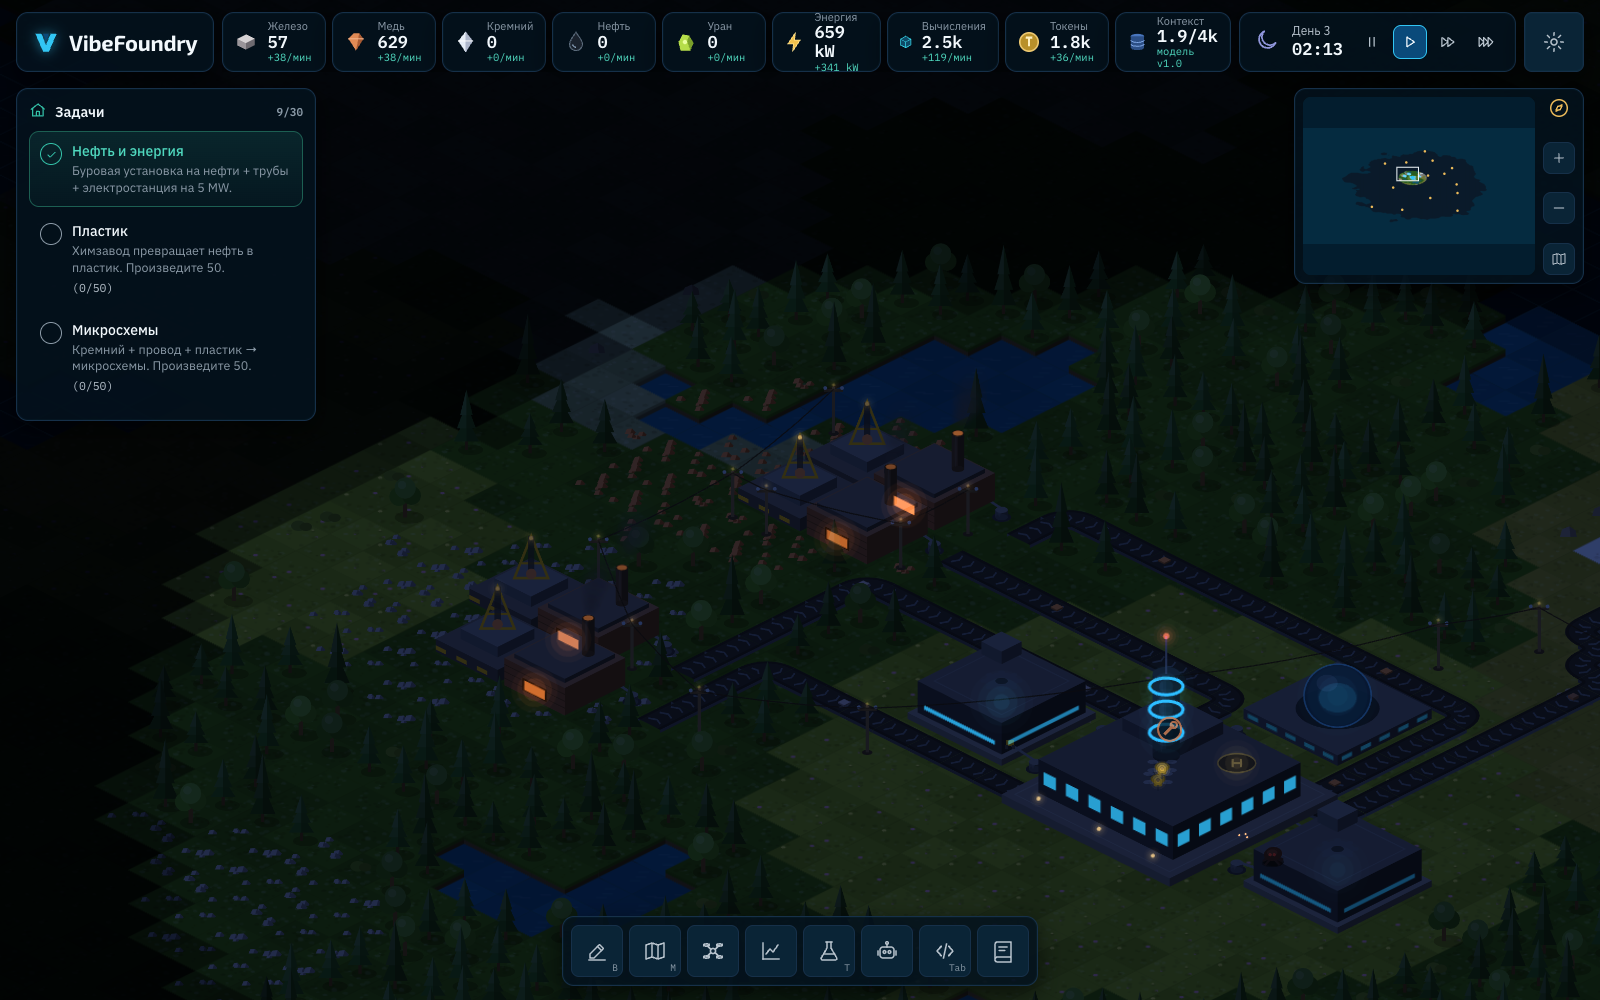
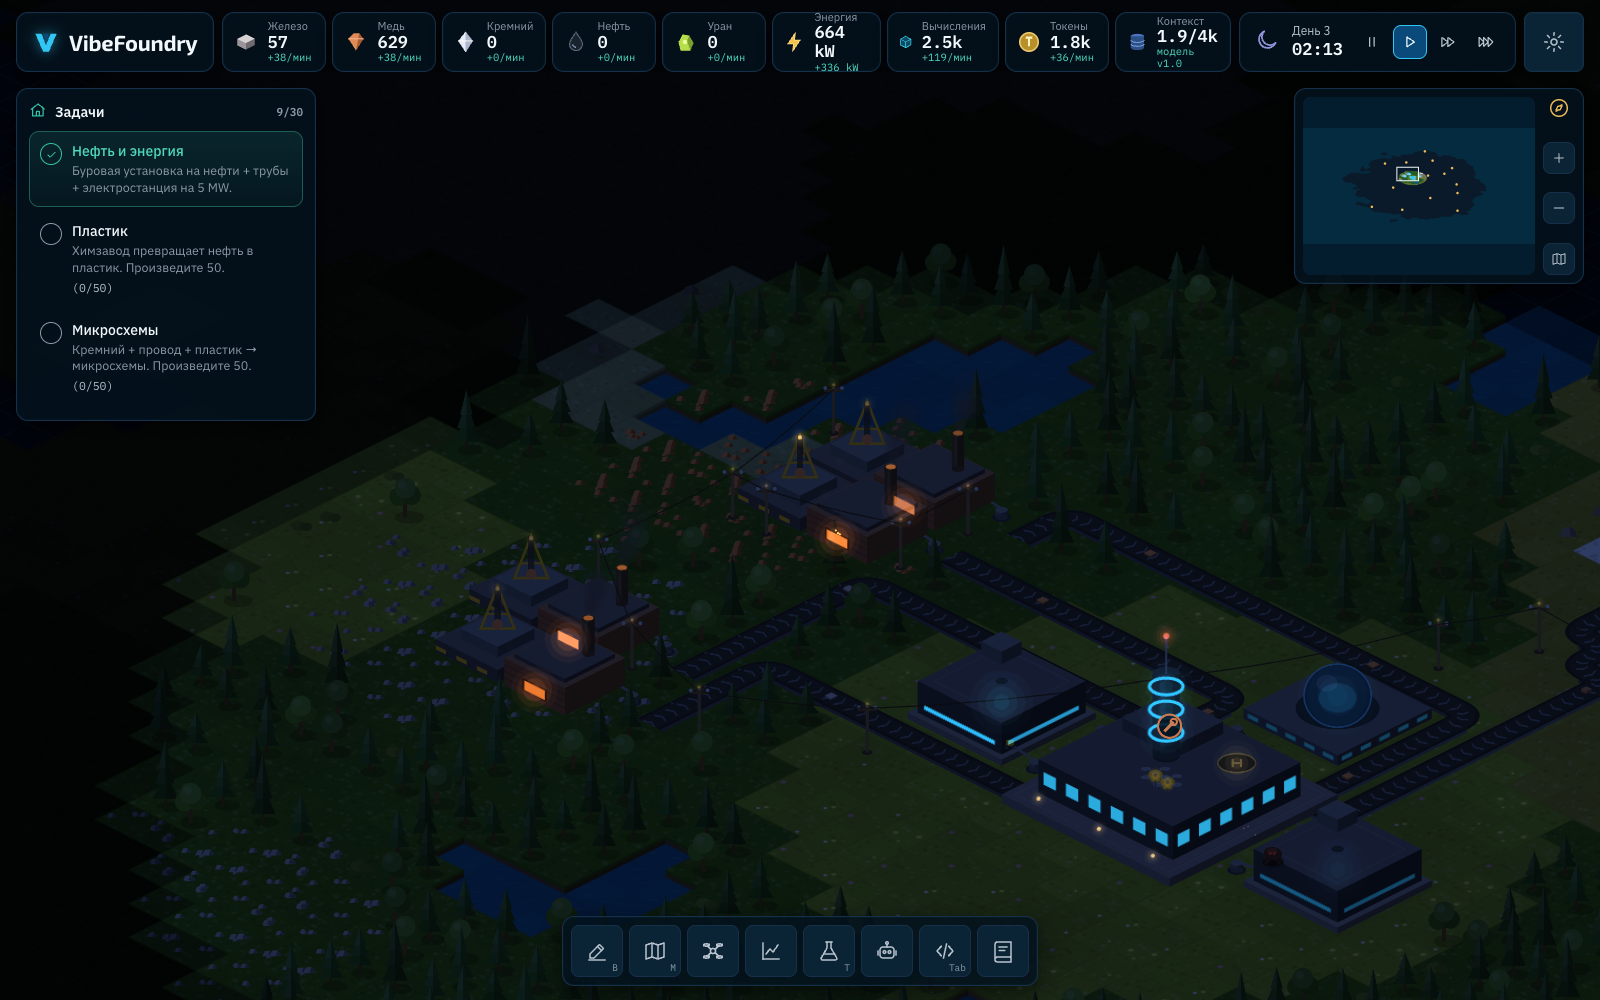
polish: README, REPORT, rect tools + G/X hotkeys, tutorial card highlight, high-contrast mode, world events, bad_threshold hallucination, e2e save/load/export

diff --git a/vibefoundry/src/ui/hud.tsx b/vibefoundry/src/ui/hud.tsx
@@ -297,15 +297,22 @@ export function BuildMenu({ game }: { game: Game }) {
   const list = BUILDING_LIST.filter((b) => !b.hidden && b.category === cat);
   const cur = game.tool.kind === 'build' ? game.tool.type : null;
   const stock = sim.stockAll();
+  const q = sim.quests.active[0];
+  const hlCard = q === 'q_drill' ? 'drill' : q === 'q_belt' ? 'belt' : q === 'q_power' ? 'pole' : q === 'q_lab' ? 'lab' : null;
   return (
     <div class="panel glow buildmenu">
       <div class="tabs">
         {CATS.map((c) => (
           <button key={c} class={c === cat ? 'on' : ''} onClick={() => { game.ui.buildCategory = c; game.emit(); }}>{CATEGORY_NAMES[c]}</button>
         ))}
-        <span class="muted" style={{ marginLeft: 'auto', fontSize: 12, alignSelf: 'center' }}>
-          <span class="kbd">R</span> поворот · <span class="kbd">Q</span> пипетка · <span class="kbd">ПКМ</span> снос
+        <span style={{ marginLeft: 'auto', display: 'flex', gap: 4 }}>
+          <button class={game.tool.kind === 'decon' ? 'on' : ''} onClick={() => { game.setTool(game.tool.kind === 'decon' ? { kind: 'none' } : { kind: 'decon' }); game.ui.panel = null; game.emit(); }} data-tip="Снос рамкой: выделите область"><Icon name="trash" size={14} /> Снос</button>
+          <button class={game.tool.kind === 'group' ? 'on' : ''} onClick={() => { game.setTool(game.tool.kind === 'group' ? { kind: 'none' } : { kind: 'group' }); game.ui.panel = null; game.emit(); }} data-tip="Группа рамкой (G): выделите здания → имя группы для скриптов"><Icon name="group" size={14} /> Группа</button>
+          {sim.isUnlocked('blueprints') && <button class={game.tool.kind === 'copy' ? 'on' : ''} onClick={() => { game.setTool({ kind: 'copy' }); game.ui.panel = null; game.emit(); }} data-tip="Чертёж (Ctrl+C): скопировать область"><Icon name="copy" size={14} /> Чертёж</button>}
         </span>
+      </div>
+      <div class="muted" style={{ fontSize: 11.5, margin: '-4px 0 8px' }}>
+        <span class="kbd">R</span> поворот · <span class="kbd">Q</span> пипетка · <span class="kbd">ПКМ</span> снос · ленты и трубы тянутся мышью
       </div>
       <div class="bgrid scroll">
         {list.map((b) => {
@@ -314,7 +321,7 @@ export function BuildMenu({ game }: { game: Game }) {
           return (
             <button
               key={b.id}
-              class={'bcard' + (cur === b.id ? ' on' : '') + (!unlocked ? ' locked' : '')}
+              class={'bcard' + (cur === b.id ? ' on' : '') + (!unlocked ? ' locked' : '') + (hlCard === b.id && cur !== b.id ? ' pulse-target' : '')}
               onClick={() => { if (unlocked) { game.selectBuild(b.id); audio.play('click'); } }}
               aria-label={b.name}
               data-tip={`${b.name}. ${b.desc}${b.power ? ` Потребление: ${mw(b.power)}.` : ''}${b.gen ? ` Выработка: ${mw(b.gen)}.` : ''} Размер ${b.w}×${b.h}.${!unlocked ? ` Требуется: ${TECHS[b.unlock!]?.name}.` : ''}`}

diff --git a/vibefoundry/src/sim/worldEvents.ts b/vibefoundry/src/sim/worldEvents.ts
@@ -1,0 +1,58 @@
+import type { Sim } from './sim';
+import { RES_CODE } from '../data/items';
+import { isWater } from '../data/biomes';
+
+/** Random world events: sandstorm, geomagnetic storm, meteor. Checked once per second. */
+export interface WorldEventState {
+  next: number;
+  sandstormUntil: number;
+  geostormUntil: number;
+}
+
+export function solarFactor(sim: Sim): number {
+  return sim.time < (sim.flags.sandstormUntil ?? 0) ? 0.3 : 1;
+}
+
+export function computeFactor(sim: Sim): number {
+  return sim.time < (sim.flags.geostormUntil ?? 0) ? 0.6 : 1;
+}
+
+export function worldEvents(sim: Sim): void {
+  if (sim.headless) return;
+  if (sim.flags.nextWorldEvent === undefined) sim.flags.nextWorldEvent = 12 * 60 + sim.rng.range(0, 300);
+  if (sim.time < sim.flags.nextWorldEvent) return;
+  sim.flags.nextWorldEvent = sim.time + sim.rng.range(8 * 60, 14 * 60);
+  const roll = sim.rng.next();
+  if (roll < 0.4 && sim.list.some((e) => e.type === 'solar')) {
+    sim.flags.sandstormUntil = sim.time + 90;
+    sim.toast({ kind: 'warning', title: 'Песчаная буря', text: 'Солнечные поля дают 30 % мощности ближайшие 90 с. Самое время для скрипта с приоритетами.', key: 'sandstorm' });
+  } else if (roll < 0.7 && sim.list.some((e) => e.type === 'server' || e.type === 'aicore' || e.type === 'datacenter')) {
+    sim.flags.geostormUntil = sim.time + 60;
+    sim.toast({ kind: 'warning', title: 'Геомагнитная буря', text: 'Помехи в серверах: вычисления −40 % на 60 с.', key: 'geostorm' });
+  } else {
+    // meteor: a fresh rare-earth (or uranium) patch somewhere in the explored area
+    const w = sim.world;
+    for (let t = 0; t < 200; t++) {
+      const x = sim.rng.int(10, w.w - 10);
+      const y = sim.rng.int(10, w.h - 10);
+      const i = w.idx(x, y);
+      if (!w.fog[i] || isWater(w.biome[i]) || w.occ[i] || w.res[i]) continue;
+      const res = sim.rng.chance(0.7) ? 'rare_earth' : 'uranium_ore';
+      for (let dy = -2; dy <= 2; dy++) for (let dx = -2; dx <= 2; dx++) {
+        const xx = x + dx;
+        const yy = y + dy;
+        if (!w.inBounds(xx, yy) || Math.hypot(dx, dy) > 2.3) continue;
+        const j = w.idx(xx, yy);
+        if (isWater(w.biome[j]) || w.occ[j]) continue;
+        w.res[j] = RES_CODE[res];
+        w.amt[j] = 900;
+        w.deco[j] = 0;
+        w.markDirty(xx, yy);
+      }
+      w.deposits.push({ res, x, y, total: 900 * 18 });
+      sim.events.emit('fx', { kind: 'explode', x, y });
+      sim.toast({ kind: 'info', title: 'Метеорит!', text: res === 'rare_earth' ? 'Упал обломок с редкоземами — новое месторождение.' : 'Упал обломок с ураном — новое месторождение.', focus: { x, y }, key: 'meteor' + x });
+      break;
+    }
+  }
+}

diff --git a/vibefoundry/e2e/playtest.spec.ts b/vibefoundry/e2e/playtest.spec.ts
@@ -125,5 +125,25 @@ test('autoplay: first 20 minutes, milestones and screenshots', async ({ page }) 
   });
   const found = await page.evaluate(() => (window as any).__vf.sim.flags.bugs.some((b: any) => b.found));
   expect(found).toBe(true);
+  // save → reload page → load: the whole factory and its Git history come back
+  const before = await page.evaluate(async () => {
+    const v = (window as any).__vf;
+    await v.game.saveTo('slot1');
+    return { ents: v.sim.list.length, commits: v.sim.git.commits.length, chat: v.sim.ai.chat.length, tick: v.sim.tick };
+  });
+  const [download] = await Promise.all([page.waitForEvent('download'), page.evaluate(() => (window as any).__vf.game.exportSave())]);
+  expect(download.suggestedFilename()).toMatch(/vibefoundry-day\d+\.json/);
+  await page.reload();
+  await page.waitForFunction(() => (window as any).__vf?.ready);
+  const after = await page.evaluate(async () => {
+    const v = (window as any).__vf;
+    const ok = await v.game.loadFrom('slot1');
+    return { ok, ents: v.sim.list.length, commits: v.sim.git.commits.length, chat: v.sim.ai.chat.length, tick: v.sim.tick };
+  });
+  expect(after.ok).toBe(true);
+  expect(after.ents).toBe(before.ents);
+  expect(after.commits).toBe(before.commits);
+  expect(after.chat).toBe(before.chat);
+  await shot(page, '13-loaded-save');
   expect(errors.filter((e) => !/favicon|DevTools/.test(e))).toEqual([]);
 });

diff --git a/vibefoundry/src/ai/hallucination.ts b/vibefoundry/src/ai/hallucination.ts
@@ -30,6 +30,7 @@ const TYPE_DESC: Record<BugRecord['type'], string> = {
   flapping: 'Дребезг — здания включаются и выключаются каждую секунду',
   bad_group: 'Маршрут/действие в несуществующую группу',
   missing_else: 'Забытая ветка else — часть логики не выполняется',
+  bad_threshold: 'Порог не в той шкале (доля стала процентами) — правило срабатывает всегда',
 };
 
 /**
@@ -54,6 +55,9 @@ export function hallucinate(code: string, rng: Rng): { code: string; bug: BugRec
     // flapping: condition also true every other second
     const mf = l.match(/^(\s*)if (.+):$/);
     if (mf && /disable|shutdown|enable/.test(lines[i + 1] ?? '')) options.push(() => at(i, `${mf[1]}if ${mf[2]} or int(self.time) % 2 == 0:`, 'flapping'));
+    // threshold in the wrong scale: 0.8 → 80
+    const mt = l.match(/^(\s*)if (self\.(?:power|energy)) (<|>) (0\.\d+):$/);
+    if (mt) options.push(() => at(i, `${mt[1]}if ${mt[2]} ${mt[3]} ${Math.round(Number(mt[4]) * 100)}:`, 'bad_threshold'));
     // hallucinated group name
     const mg = l.match(/self\.(disable|enable|shutdown|set_priority|set_recipe)\("([a-z_0-9]+)"/);
     if (mg && mg[2] !== 'all') options.push(() => at(i, l.replace(`"${mg[2]}"`, `"${mg[2]}_v2"`), 'bad_group'));

diff --git a/vibefoundry/src/ui/windows.tsx b/vibefoundry/src/ui/windows.tsx
@@ -310,7 +310,7 @@ const GROUP_DOC: [string, string][] = [
 
 const HOTKEYS: [string, string][] = [
   ['WASD / стрелки / перетаскивание', 'Камера'], ['Колесо', 'Зум'], ['ЛКМ', 'Поставить / выбрать'], ['ПКМ', 'Снести / отменить инструмент'],
-  ['R', 'Повернуть'], ['Q', 'Пипетка'], ['B', 'Строить'], ['M', 'Стратегическая карта'], ['Tab', 'Вайб-панель'], ['T', 'Исследования'],
+  ['R', 'Повернуть'], ['Q', 'Пипетка'], ['G', 'Группа рамкой'], ['X', 'Снос рамкой'], ['B', 'Строить'], ['M', 'Стратегическая карта'], ['Tab', 'Вайб-панель'], ['T', 'Исследования'],
   ['Alt', 'Оверлей рецептов и узких мест'], ['Пробел', 'Пауза'], ['1–4', 'Скорость ×1/×2/×4/×8'], ['F3', 'Оверлей производительности'],
   ['Ctrl+C / Ctrl+V', 'Копировать область в чертёж / вставить'], ['Esc', 'Закрыть / меню'], ['Delete', 'Снести выбранное'],
 ];

diff --git a/vibefoundry/tests/vibe.test.ts b/vibefoundry/tests/vibe.test.ts
@@ -123,13 +123,13 @@ describe('hallucinations, Debugger and fixes', () => {
   it('every mutation type produces parseable code with a recorded line', () => {
     const code = 'class A(Agent):\n    def run(self):\n        if self.power < 0.8:\n            self.disable("chip_production")\n        else:\n            self.enable("chip_production")\n        self.route("copper_ore", "smelter")\n';
     const seen = new Set<string>();
-    for (let s = 1; s < 200 && seen.size < 5; s++) {
+    for (let s = 1; s < 400 && seen.size < 6; s++) {
       const h = hallucinate(code, new Rng(s))!;
       expect(() => parse(h.code)).not.toThrow();
       expect(h.bug.line).toBeGreaterThan(0);
       seen.add(h.bug.type);
     }
-    expect([...seen].sort()).toEqual(['bad_group', 'flapping', 'inverted', 'missing_else', 'wrong_item']);
+    expect([...seen].sort()).toEqual(['bad_group', 'bad_threshold', 'flapping', 'inverted', 'missing_else', 'wrong_item']);
   });
 
   it('a hallucinated bug shows up in the factory, Debugger finds it, fix restores behaviour', () => {

diff --git a/vibefoundry/src/game.ts b/vibefoundry/src/game.ts
@@ -221,6 +221,14 @@ export class Game {
     if (this.keys.has('KeyA') || this.keys.has('ArrowLeft')) px -= panSpeed;
     if (this.keys.has('KeyD') || this.keys.has('ArrowRight')) px += panSpeed;
     if (px || py) this.renderer.pan(px, py);
+    // main menu: a slow cinematic drift over the island
+    if (this.ui.mainMenu) {
+      const c = this.renderer.cam;
+      c.x += 14 * dtReal;
+      c.y += 4 * Math.sin(performance.now() / 9000) * dtReal;
+      c.tx = c.x;
+      c.ty = c.y;
+    }
     let steps = 0;
     const ts = performance.now();
     if (!this.paused && !this.ui.mainMenu && !this.ui.victory) {
@@ -662,6 +670,12 @@ export class Game {
         break;
       case 'KeyQ':
         this.pipette();
+        break;
+      case 'KeyG':
+        this.setTool(this.tool.kind === 'group' ? { kind: 'none' } : { kind: 'group' });
+        break;
+      case 'KeyX':
+        this.setTool(this.tool.kind === 'decon' ? { kind: 'none' } : { kind: 'decon' });
         break;
       case 'KeyM':
         this.togglePanel('map');

diff --git a/vibefoundry/tests/intent.test.ts b/vibefoundry/tests/intent.test.ts
@@ -117,6 +117,7 @@ describe('intent engine: more templates', () => {
     ['Если враги атакуют — отправь боевых дронов', ['if "enemies" in self.alerts:', 'self.dispatch("combat", "enemies")']],
     ['Включи все плавильни', ['self.enable("smelter")']],
     ['Выключи химзавод и плавильни', ['self.disable("chem")', 'self.disable("smelter")']],
+    ['Отключи буры на железе, если железа больше 2000', ['if self.stock("iron_ore") > 2000:', 'self.disable("iron_mining")']],
     ['Логируй производство шестерён', ['self.log(', 'self.rate("gear")']],
     ['Если чипов мало — дай приоритет микросхемам', ['if self.stock("microchip") < 100:', 'self.set_priority("chips", 1)']],
     ['Keep 300 plastic in stock', ['self.limit("plastic", 300)']],

diff --git a/vibefoundry/src/sim/machines.ts b/vibefoundry/src/sim/machines.ts
@@ -8,6 +8,7 @@ import { isEnabled } from './power';
 import { fluidNetOf } from './fluids';
 import type { Sim } from './sim';
 import type { Entity } from './types';
+import { computeFactor } from './worldEvents';
 
 const PUMP_RATE = 10; // oil / s
 const COMPUTE: Partial<Record<string, number>> = { aicore: 6, server: 12, datacenter: 150 };
@@ -351,7 +352,7 @@ function updateCompute(sim: Sim, e: Entity, dt: number): void {
     if (e.cooled === undefined) e.cooled = nearWater(sim, e, 4);
     if (!e.cooled) rate *= 0.4;
   }
-  const add = rate * sat * dt;
+  const add = rate * sat * dt * computeFactor(sim);
   sim.ai.compute += add;
   sim.stats.produce('compute', add);
   e.status = e.type === 'datacenter' && !e.cooled ? 'no_cooling' : sat < 0.6 ? 'low_power' : 'working';

diff --git a/vibefoundry/src/sim/sim.ts b/vibefoundry/src/sim/sim.ts
@@ -23,6 +23,7 @@ import { GitState, newGitState } from '../vibe/git';
 import { ScriptRuntime } from '../script/runtime';
 import { QuestState, newQuestState, updateQuests } from './quests';
 import { architectBuild } from '../ai/architect';
+import { worldEvents } from './worldEvents';
 import { initGit } from '../vibe/vibe';
 
 export interface SimEvents extends Record<string, unknown> {
@@ -587,6 +588,7 @@ export class Sim {
     this.craftEvents.length = 0;
     updateQuests(this);
     aiEverySecond(this);
+    worldEvents(this);
   }
 
   /** Items produced per minute across all item types (for catastrophe detection). */

diff --git a/vibefoundry/src/sim/power.ts b/vibefoundry/src/sim/power.ts
@@ -1,6 +1,7 @@
 import { BUILDINGS } from '../data/buildings';
 import type { Sim } from './sim';
 import type { Entity, PowerNetStats } from './types';
+import { solarFactor } from './worldEvents';
 
 const ACC_CAPACITY = 5000; // kJ
 const ACC_RATE = 300; // kW
@@ -140,7 +141,7 @@ export function updatePower(sim: Sim, dt: number): void {
           break;
         }
         case 'solar':
-          cap = def.gen * daylight;
+          cap = def.gen * daylight * solarFactor(sim);
           e.status = cap > 10 ? 'working' : 'idle';
           break;
         case 'reactor':

diff --git a/vibefoundry/src/vibe/intent.ts b/vibefoundry/src/vibe/intent.ts
@@ -301,6 +301,8 @@ function targetFor(c: Clause, mode: 'toggle' | 'priority'): string[] {
       if (b === 'smelter' && it) {
         const stem = it.replace(/_ore|_plate/, '');
         out.push(`${stem}_smelters`);
+      } else if (b === 'drill' && it) {
+        out.push(`${it.replace(/_ore|_plate/, '')}_mining`);
       } else if (it && (b === 'assembler' || b === 'chem') && mode === 'toggle') out.push(productionGroup(it));
       else out.push(BUILDING_GROUP[b] ?? b);
     }
